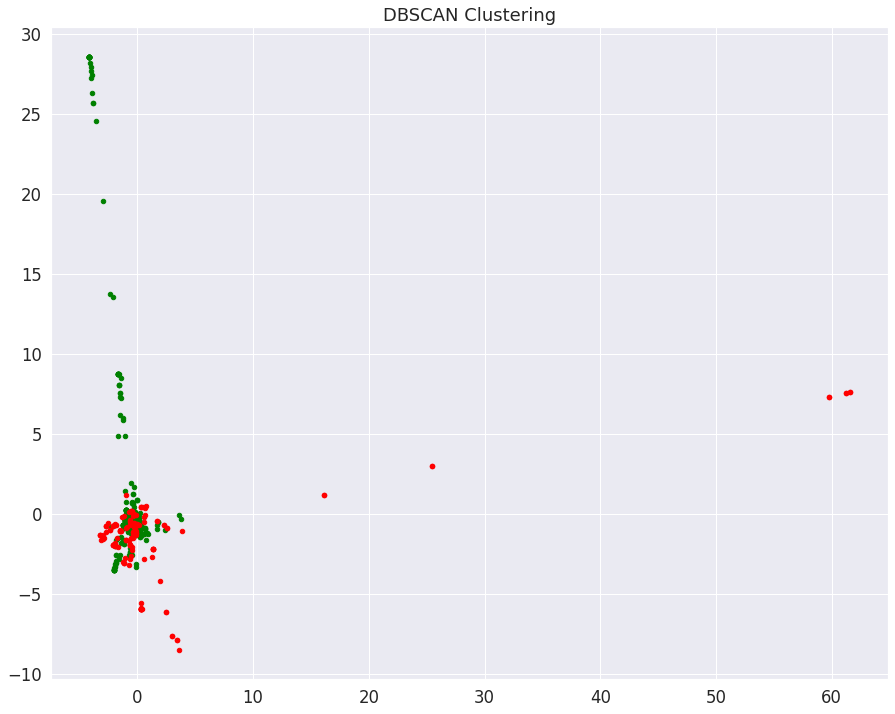
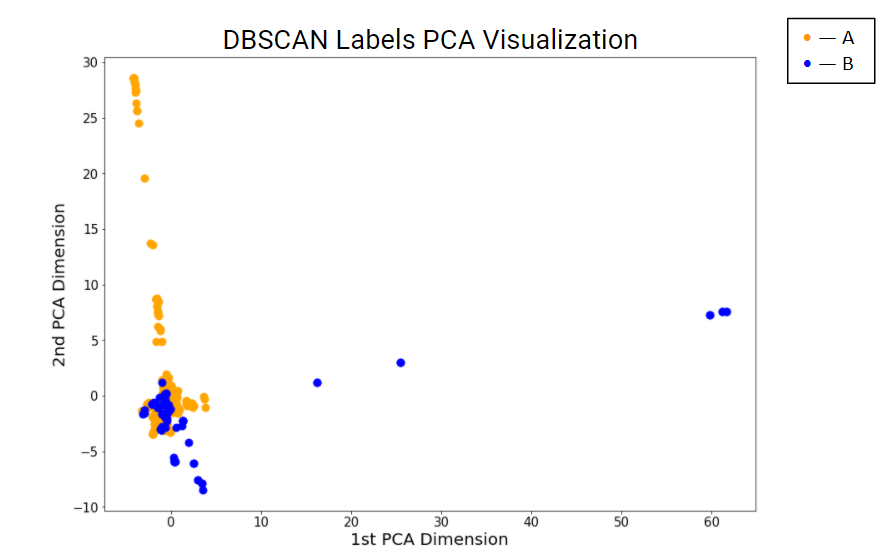
updates

diff --git a/index.md b/index.md
@@ -5,12 +5,12 @@
 <img src="images/workflow.png" />
 </p>
 
-### Introduction
+## Introduction
 Social media plays an important role in disseminating Covid-19 related information. However, despite its importance, there aren't strong controls on what information gets spread. The goal of our project is to create a machine learning model to detect Covid-19 related “fake news”. This includes information that is factually inaccurate or even dangerous.
 
 Data scientists have created fake news classifiers in the past, but we are not aware at any efforts to classify information related specifically to Covid-19. Creating a classifier tailored to check social media posts about this topic will be extremely helpful in preventing the spread of healthcare misinformation online.
 
-### Unsupervised Methods
+## Unsupervised Methods
 In the initial phase of the project, we focused on exploring the dataset using unsupervised techniques. This allows us to have a better understanding of our data, and to gain insights that may be useful when we proceed to the supervised learning step.
 
 To obtain our initial dataset, we downloaded a set of Covid-19 related tweets which had already been labeled as true or false (decribed [here](https://github.com/cuilimeng/CoAID)). Using this dataset was more difficult than expected, since it only included tweet id's (reference numbers to an actual tweet). As a result, we had to create a web-scraper to search Twitter for the tweet itself. Further, some tweets in the dataset had been deleted, requiring us to exclude those from the final dataset. After this initial data-cleaning stage, we were left with 1092 tweets to analyze. A simple analysis of the class imbalance showed that 12% were fake news, as compared to the 88% that were true. We resolved this imbalance by oversampling the fake datapoints to create an artificially balanced dataset.
@@ -46,7 +46,7 @@ After the earlier dimensionality reduction step, we also wanted to apply unsuper
 
 As can be seen, the decrease is fairly linear with respect to increasing cluster number. This may indicate that K-Means is not the best approach for this dataset. Likely, this stems from the shape of the data, which appears to have one core circular region, and two oblong outer regions. Since K-Means is best suited to circularly clustered data, it likely cannot properly cluster the two oblong regions. Nonetheless, we were curious about further exploring the K-Means results. We performed K-Means, arbitrarily configured to find 6 clusters. We explored the results through the same PCA and word-correlation techniques as earlier.
 
-The two-dimensional PCA plots for both 2-cluster and 6-cluster assignments can be seen below.
+The two-dimensional PCA plot for the 6-cluster assignments can be seen below.
 
 <p align="center">
 <img src="images/kmeans_pca.png" />
@@ -58,7 +58,7 @@ It's notable that these cluster assignments are visually quite different from th
 <img src="images/kmeans_words_6.png" />
 </p>
 
-The 6-cluster K-Means results are interesting because each cluster seems to represent a semantically distinct topic. For instance, it appears that the 6th cluster is distinctly related to 5G mobile technology. This likely stems from tweets that promote conspiracies linking 5G with covid-19.
+The 6-cluster K-Means results are interesting because each cluster seems to represent a semantically distinct topic. For instance, it appears that the cluster __F__ is distinctly related to 5G mobile technology. This likely stems from tweets that promote conspiracies linking 5G with covid-19.
 
 In addition to K-Means clustering, we also we felt that DBSCAN clustering may produce interesting results. DBSCAN has two main hyperparameters: epsilon and min_samples. Epsilon controls how "far out" DBSCAN can look from an existing cluster assignment in order to claim an additional point. Min_samples controls the minimum number of samples required for a cluster to be created. We tuned these hyperparameters using grid search. Specifically, we sought to maximize classification f1-score relative to the ground truth. We performed this grid search on the artificially balanced dataset and got a maximum f1-score of 0.53. While DBSCAN was able to classify datapoints accurately more often than chance, the low number indicates that it's ability to do so is limited.
 
@@ -76,7 +76,7 @@ We also want to explore the semantic associations of each cluster. This is shown
 <img src="images/dbscan_words.png" />
 </p>
 
-We again see a close connection between DBSCAN cluster assignments and ground truth values. In particular, the word correlations for cluster 1 closely resemble the word correlations for false tweets.
+We again see a close connection between DBSCAN cluster assignments and ground truth values. In particular, the word correlations for cluster __B__ closely resemble the word correlations for false tweets.
 
 ### Unsupervised Results Summary
 
@@ -91,15 +91,15 @@ Looking forward, we can see that, while the supervised learning effort will like
 
 As a check-for-success in the supervised learning portion of this assignment, we intend on producing a classifier that accurately differentiates between fake and true news, and producing metrics for its performance.
 
-### Supervised Methods
+## Supervised Methods
 
-Our dataset was initially comprised of about 80% real and 20% fake tweets. However, running a classifier on such an imbalanced dataset would cause the models to classify a disproportionate number of tweets as real. To resolve this issue, we oversampled the fake data and created a new dataset containing 50% real tweets and 50% fake. We then utilized stratified sampling to make sure both training and testing datasets contained an equal distribution of real and fake tweets.
+Our dataset was initially comprised of 88% real and 12% fake tweets. However, running a classifier on such an imbalanced dataset would cause the models to classify a disproportionate number of tweets as real. To resolve this issue, we oversampled the fake data and created a new dataset containing 50% real tweets and 50% fake. We then utilized stratified sampling to make sure both training and testing datasets contained an equal distribution of real and fake tweets.
 
-To determine which classifiers worked best for our dataset, we trained multiple classifiers which we believed would perform well and compared their performances. We settled on experimenting with Logistic Regression, Linear SVM, Kernel SVM, Random Forest, Neural Net, & Naïve Bayes. To achieve optimal performance, an individualized grid search was performed on each classifier to tune its hyperparameters. For hyperparameters of varying magnitude, a form of exponential search was utilized to find a balance between search range and time complexity. The tuned classifiers all resulted in higher f1-scores than their default counterparts. 
+To determine which classifiers worked best for our dataset, we trained multiple classifiers which we believed would perform well and compared their performances. We experimented with Logistic Regression, Linear SVM, Kernel SVM, Random Forest, Neural Net, & Naïve Bayes. To achieve optimal performance, an individualized grid search was performed on each classifier to tune its hyperparameters. For hyperparameters of varying magnitude, a form of exponential search was utilized to find a balance between search range and time complexity. The tuned classifiers all resulted in higher f1-scores than their default counterparts. 
 
 ### Supervised Results Summary
 
-The three best performing models were Logistic Regression, Neural Net, and Random Forest. Below, you can see the performance summary and confusion matrix of each model. Most of the performance scores were very similar, but the fake-tweet recall of the Random Forest was slightly higher than the other models, and therefore we concluded the Random Forest implementation was the best choice of prediction model.
+The three best performing models were Logistic Regression, Neural Net, and Random Forest. Below, you can see the performance summary and confusion matrix of each model. Most of the performance scores were very similar, but the fake-tweet recall of the Random Forest was slightly higher than the other models. We therefore concluded that the Random Forest model was the best predictor for our data.
 
 <p align="center">
 <img src="images/confusion_matrices_NEW.png" />
